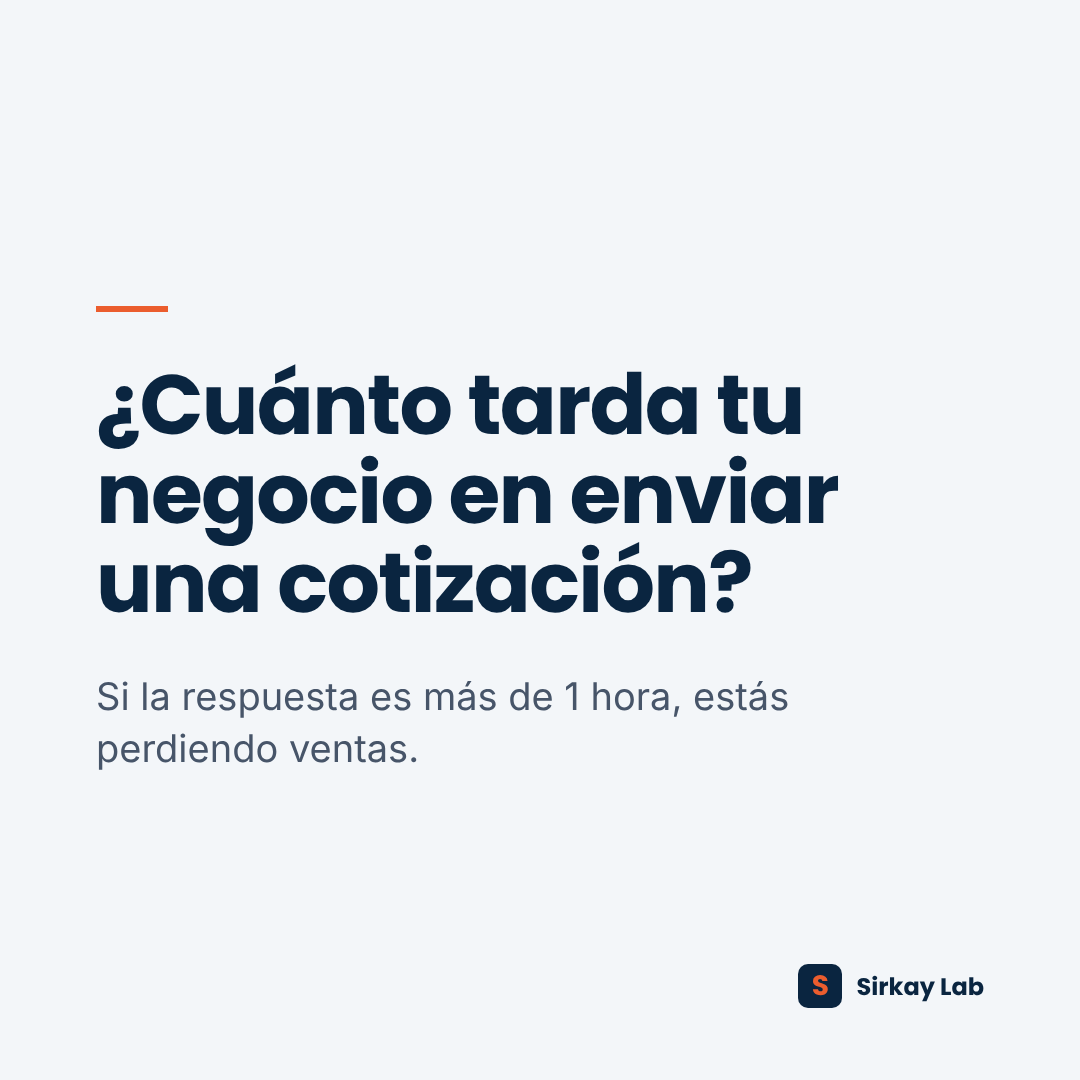
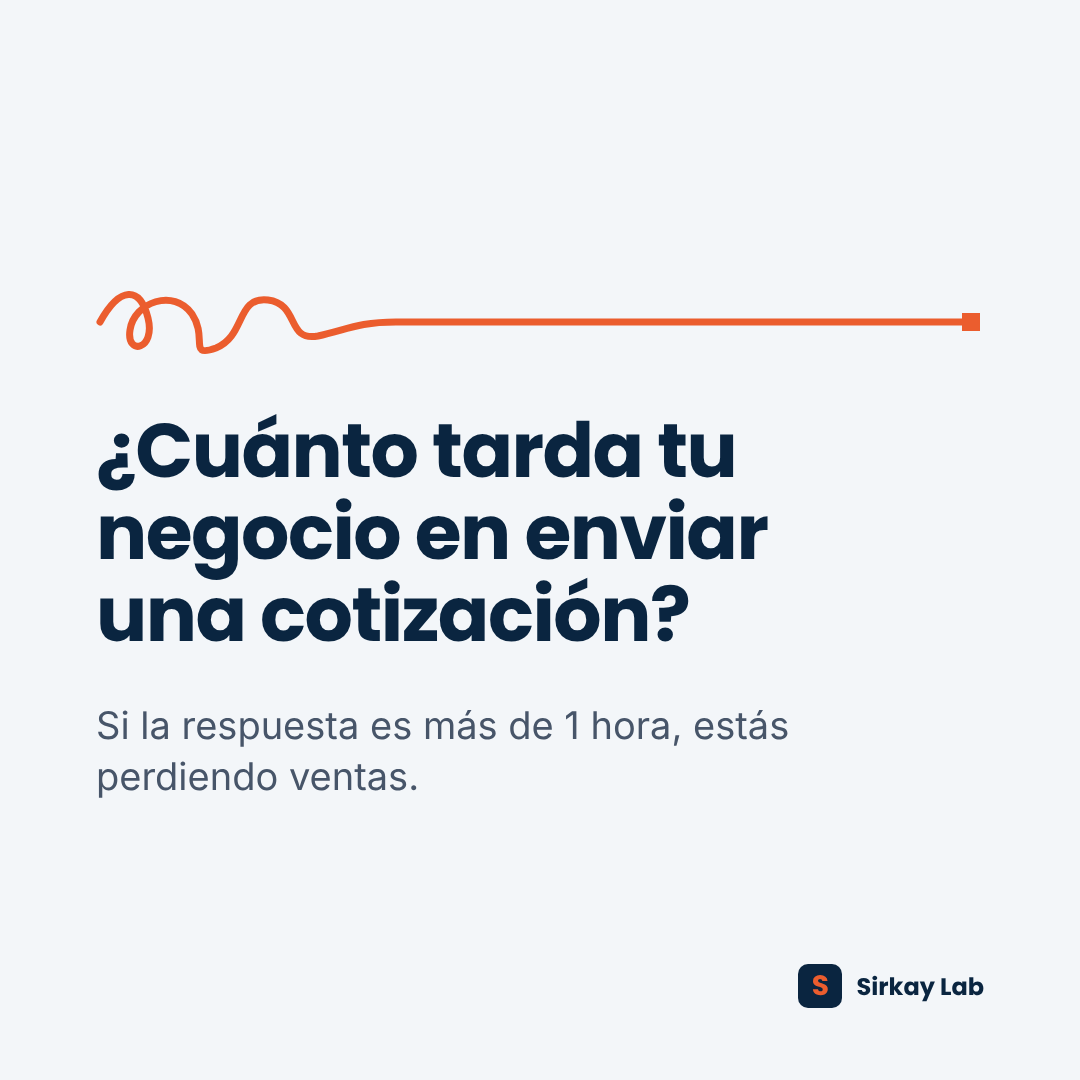
Identidad visual: trazo Sirkay (del desorden al orden)
Claude-Session: https://claude.ai/code/session_01TGB2Bx3CiJKnJZKMztJrKn

Changed region(s): [[0.0917, 0.275, 0.7944, 0.7333], [0.3056, 0.275, 0.9167, 0.3056], [0.2139, 0.275, 0.275, 0.3056]]

diff --git a/visuals/render.py b/visuals/render.py
@@ -32,7 +32,31 @@ body {{ font-family:'Inter','Poppins',Arial,sans-serif; -webkit-font-smoothing:a
 .mark {{ display:flex; align-items:center; gap:14px; font-family:'Poppins',sans-serif; font-weight:600; font-size:24px; }}
 .logo {{ width:44px; height:44px; border-radius:10px; background:{NAVY}; color:{ORANGE}; display:flex; align-items:center; justify-content:center; font-family:'Poppins',sans-serif; font-weight:700; font-size:28px; }}
 .rule {{ width:72px; height:6px; background:{ORANGE}; }}
+.rows.sk > div:first-child {{ border-top:none !important; }}
 """
+
+
+# "El trazo Sirkay": recurso gráfico propio. Una línea que empieza enredada (proceso
+# desordenado) y termina recta en un cuadrado (el logo): primero ordenamos, luego automatizamos.
+TRAZO = ("M4,44 C24,8 44,8 52,40 C60,72 30,78 34,52 C38,24 78,10 96,36 C112,60 92,80 120,70 "
+         "C150,58 140,18 172,22 C204,26 190,64 222,58 C250,52 262,44 300,44 L870,44")
+
+
+def trazo(margin="0"):
+    return (f'<svg width="888" height="88" viewBox="0 0 888 88" style="display:block; margin:{margin};">'
+            f'<path d="{TRAZO}" fill="none" stroke="{ORANGE}" stroke-width="7" stroke-linecap="round" stroke-linejoin="round"/>'
+            f'<rect x="866" y="35" width="18" height="18" fill="{ORANGE}"/></svg>')
+
+
+def es_sirkay(spec):
+    return spec.get("firma", "Sirkay Lab") == "Sirkay Lab"
+
+
+def separador(spec, margin):
+    # Sirkay usa su trazo; los posts personales (Fintech) usan una línea simple.
+    if es_sirkay(spec):
+        return trazo(margin)
+    return f'<div class="rule" style="margin:{margin};"></div>'
 
 
 def e(s):
@@ -44,7 +68,8 @@ def footer(spec, dark=False):
     fuente = spec.get("fuente", "")
     muted = "rgba(255,255,255,0.6)" if dark else SLATE
     fg = "#FFFFFF" if dark else NAVY
-    logo = '<div class="logo">S</div>' if firma == "Sirkay Lab" else ""
+    logo_style = f' style="background:{ORANGE}; color:{NAVY};"' if dark else ""
+    logo = f'<div class="logo"{logo_style}>S</div>' if firma == "Sirkay Lab" else ""
     src = f'<span style="color:{muted}">Fuente: {e(fuente)}</span>' if fuente else "<span></span>"
     return f'<div class="footer">{src}<div class="mark" style="color:{fg}">{logo}{e(firma)}</div></div>'
 
@@ -56,7 +81,7 @@ def dato(spec):
   <div class="kicker" style="color:{ORANGE}; margin-bottom:28px;">{e(spec.get('etiqueta',''))}</div>
   <div class="h" style="font-size:300px; line-height:0.9; color:{ORANGE};">{e(spec['cifra'])}</div>
   <div style="font-size:52px; line-height:1.2; font-weight:500; margin-top:36px; max-width:820px;">{e(spec['frase'])}</div>
-  <div class="rule" style="margin:48px 0 28px;"></div>
+  {separador(spec, "40px 0 24px")}
   <div class="h" style="font-size:38px; line-height:1.25; font-weight:600; color:rgba(255,255,255,0.88); max-width:820px;">{e(spec.get('remate',''))}</div>
   {footer(spec, dark=True)}
 </div>"""
@@ -71,7 +96,8 @@ def antes_despues(spec):
     return f"""
 <div class="canvas" style="background:{CREAM}; color:{NAVY};">
   <div class="h" style="font-size:68px; line-height:1.08; max-width:880px;">{e(spec['titulo'])}</div>
-  <div style="display:grid; grid-template-columns:1fr 1fr; gap:0; margin-top:64px; flex:1; max-height:560px;">
+  {trazo("40px 0 0") if es_sirkay(spec) else ""}
+  <div style="display:grid; grid-template-columns:1fr 1fr; gap:0; margin-top:{'8px' if es_sirkay(spec) else '64px'}; flex:1; max-height:560px;">
     <div style="padding:44px 40px 0 0; border-right:2px solid {LINE};">
       <div class="kicker" style="color:{SLATE}; margin-bottom:34px;">Antes</div>
       <ul style="list-style:none; color:{SLATE};">{items(spec['antes'], '#9CA3AF', '×')}</ul>
@@ -95,8 +121,9 @@ def pasos(spec):
     return f"""
 <div class="canvas" style="background:#FFFFFF; color:{NAVY};">
   <div class="kicker" style="color:{ORANGE}; margin-bottom:24px;">{e(spec.get('etiqueta','Método'))}</div>
-  <div class="h" style="font-size:66px; line-height:1.08; max-width:880px; margin-bottom:56px;">{e(spec['titulo'])}</div>
-  <div style="border-bottom:2px solid {LINE};">{rows}</div>
+  <div class="h" style="font-size:66px; line-height:1.08; max-width:880px; margin-bottom:{'24px' if es_sirkay(spec) else '56px'};">{e(spec['titulo'])}</div>
+  {trazo("0 0 24px") if es_sirkay(spec) else ""}
+  <div class="rows{' sk' if es_sirkay(spec) else ''}" style="border-bottom:2px solid {LINE};">{rows}</div>
   {footer(spec)}
 </div>"""
 
@@ -104,7 +131,7 @@ def pasos(spec):
 def pregunta(spec):
     return f"""
 <div class="canvas" style="background:{CREAM}; color:{NAVY}; justify-content:center;">
-  <div class="rule" style="margin-bottom:48px;"></div>
+  {separador(spec, "0 0 44px")}
   <div class="h" style="font-size:76px; line-height:1.08; max-width:880px;">{e(spec['pregunta'])}</div>
   <div style="font-size:38px; line-height:1.35; color:{SLATE}; margin-top:44px; max-width:820px;">{e(spec.get('apoyo',''))}</div>
   {footer(spec)}
